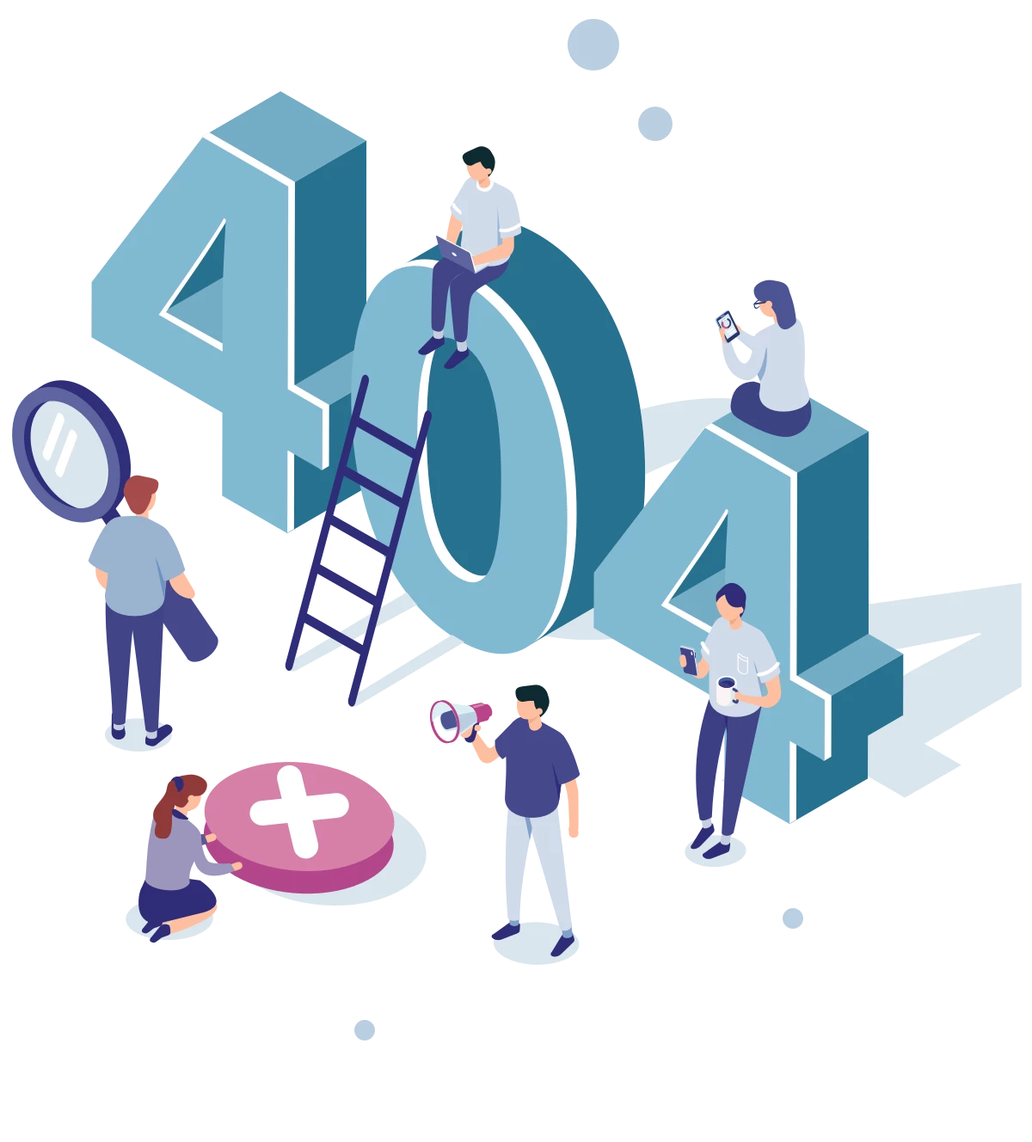
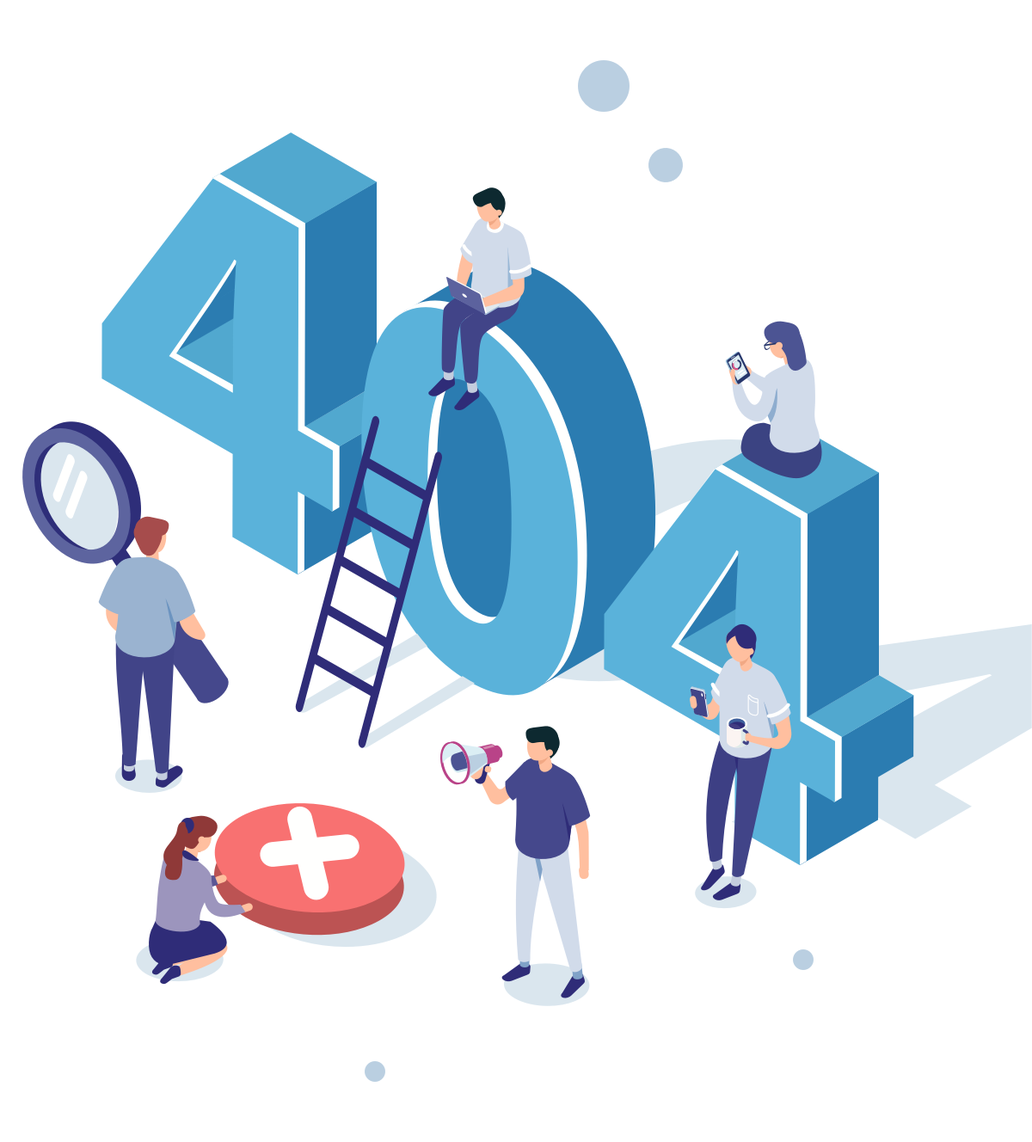
Add error page & about us and also small changes

diff --git a/data/homePage.tsx b/data/homePage.tsx
@@ -39,6 +39,7 @@ export interface IHomeDashboard {
   url: string;
   icon: JSX.Element | JSX.IntrinsicElements;
   text: string;
+  external?: boolean;
 }
 
 export const homeDashboard: IHomeDashboard[] = [
@@ -75,17 +76,18 @@ export const homeDashboard: IHomeDashboard[] = [
     ),
     text: 'Услуги и цены',
   },
-  // {
-  //   id: 3,
-  //   url: '/',
-  //   icon: (
-  //     <path
-  //       d="M12.226 2c-1.22 0-2.288.697-2.787 1.732-.637.138-1.49.354-2.355.673-.865.319-1.753.74-2.546 1.395C3.745 6.455 3 7.466 3 8.734c0 .553.09 1.19.24 2.213.15 1.022.367 2.375.673 3.896A111.178 111.178 0 006.7 25.762c2.45 7.9 5.952 16.372 11.725 19.866-.006.126-.048.252-.048.385 0 1.84.546 4.034 1.49 5.964.468.962 1.044 1.822 1.777 2.55.39.39.871.763 1.394 1.01.054 4.004.438 9.079 3.267 13.468 3.106 4.822 9.166 8.418 19.75 8.418 9.634 0 15.274-3.987 18.211-8.514 2.415-3.722 3.1-7.6 3.268-10.053 5.225-.728 9.274-5.25 9.274-10.679 0-5.928-4.841-10.774-10.764-10.774-5.928 0-10.763 4.846-10.763 10.774 0 5.376 3.976 9.837 9.13 10.63-.187 2.099-.805 5.43-2.74 8.418-2.444 3.77-6.799 7.12-15.616 7.12-9.917 0-14.626-3.103-17.155-7.023-2.3-3.566-2.72-8.04-2.787-11.833.48-.247.931-.602 1.297-.962.727-.728 1.31-1.588 1.778-2.55.943-1.93 1.49-4.124 1.49-5.964 0-.133-.042-.259-.048-.385 5.772-3.494 9.274-11.965 11.725-19.866a111.178 111.178 0 002.787-10.919c.306-1.521.522-2.874.672-3.896.15-1.022.24-1.66.24-2.213 0-1.268-.744-2.279-1.537-2.934-.793-.655-1.682-1.076-2.547-1.395a17.964 17.964 0 00-2.354-.673c-.03-.006-.018.006-.048 0C39.069 2.709 38.042 2 36.828 2a3.075 3.075 0 00-3.075 3.078 3.075 3.075 0 003.076 3.079c1.039 0 1.94-.511 2.498-1.299.475.108 1.027.229 1.586.433.673.247 1.321.565 1.682.866.36.3.384.42.384.577 0 .06-.048.818-.192 1.78a84.399 84.399 0 01-.673 3.704 108.38 108.38 0 01-2.69 10.63c-2.325 7.492-6.013 15.2-10.14 17.942-.354-.265-.732-.475-1.105-.577-1.34-.373-2.492-.145-3.652-.145-1.159 0-2.312-.222-3.652.145-.372.102-.75.312-1.105.577-4.126-2.742-7.814-10.45-10.139-17.942a108.381 108.381 0 01-2.69-10.63 84.398 84.398 0 01-.673-3.704 19.635 19.635 0 01-.193-1.78c0-.156.024-.276.385-.577.36-.3 1.009-.62 1.682-.866.558-.204 1.11-.325 1.585-.433a3.044 3.044 0 002.499 1.299c1.7 0 3.075-1.377 3.075-3.079A3.075 3.075 0 0012.226 2zm53.818 38.481a7.676 7.676 0 017.688 7.696 7.678 7.678 0 01-7.544 7.696h-.144a7.673 7.673 0 01-7.688-7.696 7.673 7.673 0 017.688-7.696zm0 3.078c-2.529 0-4.613 2.087-4.613 4.618 0 2.532 2.084 4.618 4.613 4.618 2.529 0 4.613-2.086 4.613-4.618 0-2.531-2.084-4.618-4.613-4.618zm-43.343 1.588h1.826c1.388 0 2.505-.042 2.835.048.169.048.132-.018.144 0 .013.018.097.252.097.818 0 1.124-.475 3.126-1.202 4.617-.366.746-.78 1.36-1.153 1.732-.294.295-.498.355-.625.385a1.026 1.026 0 00-.192 0c-.126-.03-.33-.09-.625-.385-.372-.373-.786-.986-1.153-1.732-.727-1.49-1.201-3.493-1.201-4.617 0-.566.084-.8.096-.818.012-.018-.024.048.144 0 .168-.048.517-.048 1.01-.048zm43.343 1.491c.871 0 1.538.667 1.538 1.54 0 .871-.667 1.538-1.538 1.538-.87 0-1.538-.667-1.538-1.539 0-.872.667-1.539 1.538-1.539z"
-  //       fillRule="nonzero"
-  //     />
-  //   ),
-  //   text: 'Раняя диагностика и скрининг',
-  // },
+  {
+    id: 3,
+    url: 'https://lk.step-med.com/',
+    icon: (
+      <path
+        d="M35.741 3c-6.052.134-10.476 1.958-13.148 5.424-3.163 4.105-3.757 10.396-1.768 18.707-.678.86-1.288 2.238-1.129 4.117.486 3.498 1.833 4.94 2.932 5.532.506 2.835 1.897 5.953 3.294 7.445v5.772c-1.003 2.228-4.27 3.517-8.032 5.003-6.346 2.505-14.245 5.622-14.794 15.47L3 72.18h35.243l.934-3.24h-32.6c1.197-6.457 6.95-8.729 12.532-10.93 3.306-1.306 6.47-2.563 8.44-4.665.522.479 1.146.882 1.809 1.218 1.77.898 4.048 1.415 6.582 1.415 2.553 0 4.838-.568 6.598-1.484a8.913 8.913 0 001.7-1.127c1.03 1.068 2.361 1.92 3.866 2.668l2.45-2.437c-2.255-1.01-4.036-2.092-4.763-3.62v-5.753c1.39-1.484 2.777-4.582 3.288-7.404 1.17-.567 2.611-2.008 2.948-5.658.156-1.824-.353-3.166-1.052-4.032 1.394-4.42 2.617-11.992-.334-16.805-1.398-2.282-3.535-3.717-6.355-4.272C42.7 4.077 39.72 3 35.741 3zm.039 3.237c3.105 0 5.341.772 6.136 2.114l.4.677.784.11c2.187.305 3.734 1.241 4.731 2.865 2.378 3.88 1.127 11.14-.298 15.075l-.52 1.335 1.302.642c.147.102.542.661.443 1.823-.222 2.398-.994 3.037-1.158 3.066h-1.495l-.14 1.469c-.298 3.071-2.033 6.242-2.628 6.683l-.828.465v7.746c0-.018-.308.7-1.504 1.323s-3.02 1.108-5.065 1.108c-2.065 0-3.896-.457-5.081-1.057-1.185-.601-1.488-1.235-1.488-1.374a1.602 1.602 0 00-.164-.721v-6.082l.035-.92-.827-.47c-.626-.46-2.365-3.633-2.663-6.705l-.022-1.452h-1.495c-.233-.09-.965-.856-1.273-3.063-.114-1.36.588-1.92.587-1.92l.968-.637-.285-1.11c-1.992-7.75-1.663-13.416.978-16.841 2.035-2.641 5.605-4.039 10.57-4.149zm34.486 35.16c-1.643 0-3.123.647-4.437 1.781l-.327.161-.163.165-.494.484-1.149 1.136-.33.323-19.214 19.119c-.164.162-.33.483-.494.645l-2.791 9.721c-.328.81.163 1.784 1.148 1.946.329.163.657.163.822 0l9.854-2.591c.328 0 .492-.163.82-.487l21.024-20.74.494-.322a6.587 6.587 0 000-9.399c-1.314-1.458-3.12-1.943-4.763-1.943zm0 3.24c.82 0 1.806.323 2.463.971 1.314 1.296 1.313 3.242.164 4.538l-4.764-4.7c.657-.485 1.316-.81 2.137-.81zm-4.6 3.079l4.927 4.86-17.902 17.66-4.927-4.699 17.902-17.821zm-19.545 20.9l3.452 3.402-4.764 1.294 1.312-4.696z"
+        fillRule="nonzero"
+      />
+    ),
+    text: 'Личный кабинет',
+    external: true,
+  },
   {
     id: 4,
     url: '/covid',
@@ -97,39 +99,46 @@ export const homeDashboard: IHomeDashboard[] = [
     ),
     text: 'COVID-19',
   },
-  // {
-  //   id: 5,
-  //   url: '/nashi-vrachi',
-  //   icon: (
-  //     <path
-  //       d="M42.808 10a1.56 1.56 0 011.426.926l.857 1.93.14.014c3.562.385 6.137 2.535 7.578 5.79 1.92-.59 4.13-.86 6.535-.86.576 0 1.1.317 1.372.817l.062.128.557 1.302.014.002c3.274.409 5.48 2.714 6.432 6.061l.073.267c.633 2.43.542 5.206-.177 7.123l-.052.131.054.103c.344.695.488 1.568.41 2.461l-.021.206c-.25 1.994-.955 3.418-1.991 4.076l-.02.01-.046.228c-.37 1.663-1.184 3.432-2.062 4.49l-.081.093.007 1.013.012.62c.015.57.041 1.108.083 1.67l.029.343.025.055c.35.716 1.115 1.316 2.61 2.04l.496.233.547.243 2.585 1.077.202.086c5.445 2.343 8.207 5.056 8.533 10.265a1.56 1.56 0 01-1.417 1.65l-.14.007h-9.667c.241.929.394 1.934.46 3.026a1.56 1.56 0 01-1.557 1.654H13.324a1.56 1.56 0 01-1.557-1.654c.062-1.032.202-1.985.42-2.871H2.56c-.9 0-1.613-.758-1.557-1.656.319-5.102 3-7.81 8.275-10.117l.545-.234 2.324-.954.557-.238.51-.229c1.698-.785 2.546-1.416 2.918-2.172l.022-.05.032-.407c.044-.623.07-1.204.085-1.814l.013-.8.003-.632-.067-.077c-.86-1.03-1.682-2.757-2.131-4.446l-.103-.414-.063-.038c-.989-.63-1.678-1.96-1.956-3.826l-.037-.27c-.115-1.033.079-2 .482-2.738l.046-.08-.031-.086c-2.8-7.908 2.462-15.513 12.279-15.674l.318-.003c.542 0 1.04.28 1.324.734l.071.128.335.67c2.15-5.337 7.734-9.204 15.657-9.329zm-1.004 3.142l-.308.017c-6.693.408-11.062 3.94-12.262 8.604a1.53 1.53 0 01-.078.43l-.05.13c-.453 2.275-.173 4.793.936 7.333a1.56 1.56 0 01-.565 1.922c-.05.033-.152.152-.239.333-.142.296-.21.686-.166 1.178.193 1.922.719 2.575 1.25 2.681l.132.033a1.56 1.56 0 011.113 1.334c.139 1.314.718 2.908 1.288 4.06l.19.366c.343.639.665 1.083.862 1.167.573.246.945.81.945 1.434v.935l-.008 1.23-.016.954c-.023 1-.065 1.93-.136 2.92a1.56 1.56 0 01-.098.444c-.855 2.243-2.533 3.561-5.927 5.06l-.679.293-.723.299-.378.152-2.004.794-.913.37-.732.312c-4.888 2.128-7.405 4.373-8.148 8.19l-.008.043h49.835l-.065-.32c-.83-3.745-3.454-5.95-8.468-8.076l-.354-.148-.437-.18-2.858-1.137-.723-.299-.679-.293c-3.394-1.499-5.072-2.817-5.927-5.06a1.56 1.56 0 01-.099-.451l-.03-.476-.05-.904a62.197 62.197 0 01-.019-.439l-.03-.876a74.295 74.295 0 01-.018-.91l-.01-.985-.002-1.441c0-.624.372-1.189.945-1.435.19-.081.545-.654.917-1.454l.172-.385c.057-.133.115-.27.171-.411l.167-.433c.355-.954.657-2.015.758-2.92a1.56 1.56 0 011.55-1.387c-.056 0-.055-.013-.01-.071l.127-.163c.35-.467.656-1.293.825-2.403.051-.562-.01-1.02-.136-1.318l-.039-.08-.11-.054a1.562 1.562 0 01-.55-2.237l.17-.231c.886-1.3 1.193-4.722.419-7.628-.945-3.549-3.109-5.627-6.468-5.627a1.56 1.56 0 01-1.426-.926l-.826-1.86zm-17.083 9.1l-.648-1.294-.217.014c-7.296.54-10.723 6.15-8.268 12.046l.099.23a1.56 1.56 0 01-.73 2.025l.14-.07c.025-.01.03-.01.026.002l-.006.015c-.085.19-.127.463-.089.804.103.828.278 1.378.467 1.678l.052.076.007.015.068.008a1.56 1.56 0 011.252 1.196l.024.135c.094.705.339 1.516.622 2.245l.157.388.161.365.16.336c.265.53.51.91.653.994.47.282.757.79.757 1.338l-.006 1.51a44.075 44.075 0 01-.155 3.3 1.56 1.56 0 01-.089.403c-.769 2.114-2.367 3.229-5.774 4.658l-2.148.88-.396.167c-3.792 1.614-5.782 3.211-6.468 5.892l-.01.038h9.076c1.59-2.717 4.31-4.677 8.232-6.428l.73-.317.376-.158.454-.186 2.85-1.134.337-.138.637-.27.589-.26c2.26-1.026 3.402-1.875 3.921-2.945l.032-.07.03-.445c.04-.689.067-1.363.083-2.078l.015-.913.007-1.368-.1-.1c-1.294-1.323-2.514-3.892-2.998-6.28l-.023-.119-.141-.08c-1.261-.768-2.174-2.321-2.468-4.653l-.035-.309c-.118-1.302.17-2.442.715-3.297l.108-.162-.1-.276c-.786-2.245-1.051-4.47-.847-6.572a1.553 1.553 0 01-1.05-.708l-.071-.128zm33.602-1.303l-.424.02c-1.537.083-2.939.306-4.154.677.607 2.96.393 6.166-.527 8.303l-.018.037.124.214c.435.807.633 1.877.561 3.046l-.018.24c-.368 2.452-1.296 4.21-2.558 4.967l-.09.051-.015.083c-.475 2.346-1.607 4.896-2.837 6.224l-.099.102.005 1.089.011.84.009.399.023.773.015.384.039.778.034.564.032.07c.52 1.07 1.663 1.92 3.929 2.949l.59.26c.102.045.206.09.313.134l.663.275L57 54.64l.6.25.73.317c3.85 1.717 6.539 3.637 8.14 6.273l.051-.001h9.118l-.018-.078c-.669-2.587-2.544-4.16-6.074-5.72l-.705-.304-1.775-.733-.674-.286c-3.146-1.364-4.652-2.474-5.394-4.514a1.56 1.56 0 01-.088-.392 36.733 36.733 0 01-.121-1.83l-.029-.938-.011-1.348-.001-.705c0-.548.287-1.056.757-1.338.134-.08.353-.41.585-.871l.157-.325.156-.356.151-.38c.27-.71.492-1.499.538-2.145a1.56 1.56 0 011.274-1.424l.08-.011.007-.014c.19-.255.373-.758.49-1.535l.029-.219a1.957 1.957 0 00-.032-.723l-.034-.104-.022-.014a1.562 1.562 0 01-.47-2.128l.078-.113c.663-.884.923-3.543.343-5.769-.675-2.59-2.184-4.059-4.555-4.059a1.56 1.56 0 01-1.372-.817l-.062-.129-.523-1.22z"
-  //       fillRule="nonzero"
-  //     />
-  //   ),
-  //   text: 'Наши сотрудники',
-  // },
-  // {
-  //   id: 6,
-  //   url: '/zaochnaya-konsultaciya',
-  //   icon: (
-  //     <path
-  //       d="M45.23 3c-2.613 0-4.766 2.134-4.766 4.723v17.318c0 2.589 2.153 4.723 4.766 4.723h3.493c.112.443.193.584.292 1.377.18 1.415.118 3.112-.44 4.213a1.578 1.578 0 00.068 1.537 1.6 1.6 0 001.352.744c3.264 0 5.548-2.466 7.056-4.606 1.16-1.642 1.52-2.595 1.811-3.265h13.372c2.613 0 4.766-2.134 4.766-4.723V7.723C77 5.134 74.847 3 72.234 3H45.23zm0 3.149h27.004c.9 0 1.589.682 1.589 1.574v17.318c0 .891-.689 1.574-1.589 1.574H57.938c-.652 0-1.235.394-1.47.99 0 0-.745 1.82-2.011 3.616-.652.917-1.415 1.734-2.203 2.331a14.208 14.208 0 00-.087-2.804c-.217-1.735-.664-3.057-.664-3.057a1.586 1.586 0 00-1.508-1.076H45.23c-.9 0-1.589-.683-1.589-1.574V7.723c0-.892.689-1.574 1.589-1.574zm-7.943 3.136c-6.782 0-11.181 3.02-12.968 7.583-1.7 4.335-1.242 9.796.16 15.559-.75.774-1.488 1.857-1.495 3.628-.012 2.085.708 3.696 1.663 4.723.546.584 1.136.652 1.713.91.112 1.58.385 3.18.962 4.55.521 1.25 1.247 2.104 2.016 2.934 0 2.011.013 3.567 0 5.535-.62 1.322-1.898 2.392-3.84 3.401-2.017 1.058-4.61 2.005-7.21 3.192-2.607 1.187-5.257 2.638-7.36 4.852-2.104 2.214-3.593 5.233-3.829 9.17L7 77h63.751l-.099-1.679c-.236-3.936-1.725-6.955-3.835-9.175-2.11-2.214-4.759-3.66-7.371-4.852-2.613-1.194-5.2-2.134-7.217-3.192-1.936-1.009-3.208-2.079-3.816-3.389-.019-2.115 0-3.677 0-5.664.77-.805 1.508-1.642 2.01-2.675.67-1.377 1.167-2.681 1.167-4.016 0-.873-.714-1.58-1.595-1.58-.88 0-1.594.707-1.594 1.58 0 .24-.323 1.538-.857 2.645-.533 1.107-1.346 2.146-1.65 2.367l-.67.474v.812c0 2.324-.038 3.93 0 6.519l.006.295.105.27c.993 2.43 3.097 3.96 5.405 5.166 2.302 1.2 4.92 2.146 7.372 3.266 2.45 1.113 4.722 2.404 6.378 4.145 1.328 1.396 2.154 3.234 2.594 5.522H10.667c.435-2.288 1.266-4.126 2.582-5.522 1.656-1.74 3.921-3.026 6.366-4.14 2.451-1.118 5.063-2.06 7.372-3.265 2.314-1.205 4.418-2.736 5.423-5.166l.112-.276.006-.302c.03-2.367 0-3.985 0-6.315v-.8l-.652-.473c-.198-.148-1.048-1.23-1.607-2.559-.552-1.322-.943-2.92-.918-4.212l.025-1.476-1.49-.123c.112.006-.484-.136-.893-.578-.41-.443-.825-1.156-.82-2.565.013-1.334.628-1.685.832-1.808l1-.609-.292-1.131c-1.502-5.769-1.787-11.02-.422-14.507 1.371-3.487 4.07-5.554 9.996-5.554.881 0 1.601-.713 1.601-1.586 0-.874-.72-1.587-1.6-1.587zm12.708 1.587v3.148h11.12v-3.148h-11.12zm14.297 0v3.148h4.765v-3.148h-4.765zm-14.297 7.871v3.149h4.766v-3.149h-4.766zm7.943 0v3.149h11.12v-3.149h-11.12z"
-  //       fillRule="nonzero"
-  //     />
-  //   ),
-  //   text: 'Заочная консультация',
-  // },
-  // {
-  //   id: 7,
-  //   url: '/',
-  //   icon: (
-  //     <path
-  //       d="M2.75 4.247A1.586 1.586 0 001.5 5.825v56.317c0 6.701 3.531 10.48 7 12.181 3.469 1.702 6.9 1.628 6.9 1.628h49.2v-.148c.769.086 1.6.148 1.6.148s3.075.018 6.15-1.726c3-1.702 5.956-5.302 6.1-11.54a.732.732 0 00.05-.099v-.098c.006-.08.006-.167 0-.247v-39.6-.05s.025-1.849-.95-3.747c-.975-1.899-3.244-3.945-6.8-3.945v-.05H55.6v3.156h8.9a6.892 6.892 0 00-.5.79c-.975 1.88-1 3.747-1 3.747v38.269a1.583 1.583 0 00.794 1.387c.5.284 1.112.284 1.612 0 .5-.29.8-.82.794-1.387V22.542c0-.043.063-1.183.65-2.317.6-1.153 1.444-2.17 3.9-2.17 2.45 0 3.294 1.042 3.9 2.219.594 1.159.7 2.324.7 2.367h-.05v39.6c0 5.616-2.275 7.983-4.55 9.271-2.275 1.289-4.55 1.283-4.55 1.283s-2.706-.037-5.4-1.381c-2.694-1.344-5.3-3.705-5.3-9.272V5.825c0-.87-.719-1.578-1.6-1.578H3.1a1.66 1.66 0 00-.35 0zM4.7 7.403h47.6v54.74c0 5.19 2.231 8.586 4.85 10.652h-41.8s-.687.006-1.7-.148c-.506-.08-1.069-.21-1.7-.395-.631-.185-1.331-.413-2-.74a11.221 11.221 0 01-1-.542c-2.287-1.418-4.25-3.865-4.25-8.828V7.402zm6.4 9.813c-.881.124-1.5.931-1.375 1.8.125.87.944 1.48 1.825 1.357H43.1a1.614 1.614 0 001.406-.783 1.574 1.574 0 000-1.59 1.614 1.614 0 00-1.406-.784H11.1zm0 6.313c-.881.123-1.5.93-1.375 1.8.125.869.944 1.48 1.825 1.356H43.1a1.614 1.614 0 001.406-.783 1.574 1.574 0 000-1.59 1.614 1.614 0 00-1.406-.783H11.1zm.75 12.624c-.881.124-1.5.931-1.375 1.8.125.87.944 1.48 1.825 1.357h10.85a1.614 1.614 0 001.406-.783 1.574 1.574 0 000-1.59 1.614 1.614 0 00-1.406-.784h-11.3zm18.45 0c-.881.124-1.5.931-1.375 1.8.125.87.944 1.48 1.825 1.357H43.1a1.614 1.614 0 001.406-.783 1.574 1.574 0 000-1.59 1.614 1.614 0 00-1.406-.784H30.3zm-18.45 6.313c-.881.123-1.5.93-1.375 1.8.125.869.944 1.48 1.825 1.356h10.85a1.614 1.614 0 001.406-.783 1.574 1.574 0 000-1.59 1.614 1.614 0 00-1.406-.783h-11.3zm18.45 0c-.881.123-1.5.93-1.375 1.8.125.869.944 1.48 1.825 1.356H43.1a1.614 1.614 0 001.406-.783 1.574 1.574 0 000-1.59 1.614 1.614 0 00-1.406-.783H30.3zm0 5.967c-.881.123-1.5.93-1.375 1.8s.944 1.48 1.825 1.356H43.1a1.614 1.614 0 001.406-.783 1.574 1.574 0 000-1.59 1.614 1.614 0 00-1.406-.783H30.75c-.1-.012-.2-.012-.3 0h-.15zm-18.45.345c-.881.123-1.5.93-1.375 1.8s.944 1.48 1.825 1.356h10.85a1.614 1.614 0 001.406-.783 1.574 1.574 0 000-1.59 1.614 1.614 0 00-1.406-.783h-11.3zm18.45 5.967c-.881.123-1.5.931-1.375 1.8.125.87.944 1.48 1.825 1.356H43.1a1.614 1.614 0 001.406-.783 1.574 1.574 0 000-1.59 1.614 1.614 0 00-1.406-.783H30.75c-.1-.012-.2-.012-.3 0h-.15zm-18.45.345c-.881.124-1.5.931-1.375 1.8.125.87.944 1.48 1.825 1.357h10.85a1.614 1.614 0 001.406-.783 1.574 1.574 0 000-1.59 1.614 1.614 0 00-1.406-.784h-11.3zm18.45 5.573c-.881.123-1.5.93-1.375 1.8s.944 1.48 1.825 1.356H43.1a1.614 1.614 0 001.406-.783 1.574 1.574 0 000-1.59 1.614 1.614 0 00-1.406-.783H30.3zm-18.45.74c-.881.123-1.5.93-1.375 1.8.125.869.944 1.48 1.825 1.356h10.85a1.614 1.614 0 001.406-.783 1.574 1.574 0 000-1.59 1.614 1.614 0 00-1.406-.783h-11.3z"
-  //       fillRule="nonzero"
-  //     />
-  //   ),
-  //   text: 'Наши события',
-  // },
+  {
+    id: 5,
+    url: '/zaochnaya-konsultaciya',
+    icon: (
+      <path
+        d="M45.23 3c-2.613 0-4.766 2.134-4.766 4.723v17.318c0 2.589 2.153 4.723 4.766 4.723h3.493c.112.443.193.584.292 1.377.18 1.415.118 3.112-.44 4.213a1.578 1.578 0 00.068 1.537 1.6 1.6 0 001.352.744c3.264 0 5.548-2.466 7.056-4.606 1.16-1.642 1.52-2.595 1.811-3.265h13.372c2.613 0 4.766-2.134 4.766-4.723V7.723C77 5.134 74.847 3 72.234 3H45.23zm0 3.149h27.004c.9 0 1.589.682 1.589 1.574v17.318c0 .891-.689 1.574-1.589 1.574H57.938c-.652 0-1.235.394-1.47.99 0 0-.745 1.82-2.011 3.616-.652.917-1.415 1.734-2.203 2.331a14.208 14.208 0 00-.087-2.804c-.217-1.735-.664-3.057-.664-3.057a1.586 1.586 0 00-1.508-1.076H45.23c-.9 0-1.589-.683-1.589-1.574V7.723c0-.892.689-1.574 1.589-1.574zm-7.943 3.136c-6.782 0-11.181 3.02-12.968 7.583-1.7 4.335-1.242 9.796.16 15.559-.75.774-1.488 1.857-1.495 3.628-.012 2.085.708 3.696 1.663 4.723.546.584 1.136.652 1.713.91.112 1.58.385 3.18.962 4.55.521 1.25 1.247 2.104 2.016 2.934 0 2.011.013 3.567 0 5.535-.62 1.322-1.898 2.392-3.84 3.401-2.017 1.058-4.61 2.005-7.21 3.192-2.607 1.187-5.257 2.638-7.36 4.852-2.104 2.214-3.593 5.233-3.829 9.17L7 77h63.751l-.099-1.679c-.236-3.936-1.725-6.955-3.835-9.175-2.11-2.214-4.759-3.66-7.371-4.852-2.613-1.194-5.2-2.134-7.217-3.192-1.936-1.009-3.208-2.079-3.816-3.389-.019-2.115 0-3.677 0-5.664.77-.805 1.508-1.642 2.01-2.675.67-1.377 1.167-2.681 1.167-4.016 0-.873-.714-1.58-1.595-1.58-.88 0-1.594.707-1.594 1.58 0 .24-.323 1.538-.857 2.645-.533 1.107-1.346 2.146-1.65 2.367l-.67.474v.812c0 2.324-.038 3.93 0 6.519l.006.295.105.27c.993 2.43 3.097 3.96 5.405 5.166 2.302 1.2 4.92 2.146 7.372 3.266 2.45 1.113 4.722 2.404 6.378 4.145 1.328 1.396 2.154 3.234 2.594 5.522H10.667c.435-2.288 1.266-4.126 2.582-5.522 1.656-1.74 3.921-3.026 6.366-4.14 2.451-1.118 5.063-2.06 7.372-3.265 2.314-1.205 4.418-2.736 5.423-5.166l.112-.276.006-.302c.03-2.367 0-3.985 0-6.315v-.8l-.652-.473c-.198-.148-1.048-1.23-1.607-2.559-.552-1.322-.943-2.92-.918-4.212l.025-1.476-1.49-.123c.112.006-.484-.136-.893-.578-.41-.443-.825-1.156-.82-2.565.013-1.334.628-1.685.832-1.808l1-.609-.292-1.131c-1.502-5.769-1.787-11.02-.422-14.507 1.371-3.487 4.07-5.554 9.996-5.554.881 0 1.601-.713 1.601-1.586 0-.874-.72-1.587-1.6-1.587zm12.708 1.587v3.148h11.12v-3.148h-11.12zm14.297 0v3.148h4.765v-3.148h-4.765zm-14.297 7.871v3.149h4.766v-3.149h-4.766zm7.943 0v3.149h11.12v-3.149h-11.12z"
+        fillRule="nonzero"
+      />
+    ),
+    text: 'Заочная консультация',
+  },
+  {
+    id: 6,
+    url: '/o-nas',
+    icon: (
+      <path
+        d="M42.808 10a1.56 1.56 0 011.426.926l.857 1.93.14.014c3.562.385 6.137 2.535 7.578 5.79 1.92-.59 4.13-.86 6.535-.86.576 0 1.1.317 1.372.817l.062.128.557 1.302.014.002c3.274.409 5.48 2.714 6.432 6.061l.073.267c.633 2.43.542 5.206-.177 7.123l-.052.131.054.103c.344.695.488 1.568.41 2.461l-.021.206c-.25 1.994-.955 3.418-1.991 4.076l-.02.01-.046.228c-.37 1.663-1.184 3.432-2.062 4.49l-.081.093.007 1.013.012.62c.015.57.041 1.108.083 1.67l.029.343.025.055c.35.716 1.115 1.316 2.61 2.04l.496.233.547.243 2.585 1.077.202.086c5.445 2.343 8.207 5.056 8.533 10.265a1.56 1.56 0 01-1.417 1.65l-.14.007h-9.667c.241.929.394 1.934.46 3.026a1.56 1.56 0 01-1.557 1.654H13.324a1.56 1.56 0 01-1.557-1.654c.062-1.032.202-1.985.42-2.871H2.56c-.9 0-1.613-.758-1.557-1.656.319-5.102 3-7.81 8.275-10.117l.545-.234 2.324-.954.557-.238.51-.229c1.698-.785 2.546-1.416 2.918-2.172l.022-.05.032-.407c.044-.623.07-1.204.085-1.814l.013-.8.003-.632-.067-.077c-.86-1.03-1.682-2.757-2.131-4.446l-.103-.414-.063-.038c-.989-.63-1.678-1.96-1.956-3.826l-.037-.27c-.115-1.033.079-2 .482-2.738l.046-.08-.031-.086c-2.8-7.908 2.462-15.513 12.279-15.674l.318-.003c.542 0 1.04.28 1.324.734l.071.128.335.67c2.15-5.337 7.734-9.204 15.657-9.329zm-1.004 3.142l-.308.017c-6.693.408-11.062 3.94-12.262 8.604a1.53 1.53 0 01-.078.43l-.05.13c-.453 2.275-.173 4.793.936 7.333a1.56 1.56 0 01-.565 1.922c-.05.033-.152.152-.239.333-.142.296-.21.686-.166 1.178.193 1.922.719 2.575 1.25 2.681l.132.033a1.56 1.56 0 011.113 1.334c.139 1.314.718 2.908 1.288 4.06l.19.366c.343.639.665 1.083.862 1.167.573.246.945.81.945 1.434v.935l-.008 1.23-.016.954c-.023 1-.065 1.93-.136 2.92a1.56 1.56 0 01-.098.444c-.855 2.243-2.533 3.561-5.927 5.06l-.679.293-.723.299-.378.152-2.004.794-.913.37-.732.312c-4.888 2.128-7.405 4.373-8.148 8.19l-.008.043h49.835l-.065-.32c-.83-3.745-3.454-5.95-8.468-8.076l-.354-.148-.437-.18-2.858-1.137-.723-.299-.679-.293c-3.394-1.499-5.072-2.817-5.927-5.06a1.56 1.56 0 01-.099-.451l-.03-.476-.05-.904a62.197 62.197 0 01-.019-.439l-.03-.876a74.295 74.295 0 01-.018-.91l-.01-.985-.002-1.441c0-.624.372-1.189.945-1.435.19-.081.545-.654.917-1.454l.172-.385c.057-.133.115-.27.171-.411l.167-.433c.355-.954.657-2.015.758-2.92a1.56 1.56 0 011.55-1.387c-.056 0-.055-.013-.01-.071l.127-.163c.35-.467.656-1.293.825-2.403.051-.562-.01-1.02-.136-1.318l-.039-.08-.11-.054a1.562 1.562 0 01-.55-2.237l.17-.231c.886-1.3 1.193-4.722.419-7.628-.945-3.549-3.109-5.627-6.468-5.627a1.56 1.56 0 01-1.426-.926l-.826-1.86zm-17.083 9.1l-.648-1.294-.217.014c-7.296.54-10.723 6.15-8.268 12.046l.099.23a1.56 1.56 0 01-.73 2.025l.14-.07c.025-.01.03-.01.026.002l-.006.015c-.085.19-.127.463-.089.804.103.828.278 1.378.467 1.678l.052.076.007.015.068.008a1.56 1.56 0 011.252 1.196l.024.135c.094.705.339 1.516.622 2.245l.157.388.161.365.16.336c.265.53.51.91.653.994.47.282.757.79.757 1.338l-.006 1.51a44.075 44.075 0 01-.155 3.3 1.56 1.56 0 01-.089.403c-.769 2.114-2.367 3.229-5.774 4.658l-2.148.88-.396.167c-3.792 1.614-5.782 3.211-6.468 5.892l-.01.038h9.076c1.59-2.717 4.31-4.677 8.232-6.428l.73-.317.376-.158.454-.186 2.85-1.134.337-.138.637-.27.589-.26c2.26-1.026 3.402-1.875 3.921-2.945l.032-.07.03-.445c.04-.689.067-1.363.083-2.078l.015-.913.007-1.368-.1-.1c-1.294-1.323-2.514-3.892-2.998-6.28l-.023-.119-.141-.08c-1.261-.768-2.174-2.321-2.468-4.653l-.035-.309c-.118-1.302.17-2.442.715-3.297l.108-.162-.1-.276c-.786-2.245-1.051-4.47-.847-6.572a1.553 1.553 0 01-1.05-.708l-.071-.128zm33.602-1.303l-.424.02c-1.537.083-2.939.306-4.154.677.607 2.96.393 6.166-.527 8.303l-.018.037.124.214c.435.807.633 1.877.561 3.046l-.018.24c-.368 2.452-1.296 4.21-2.558 4.967l-.09.051-.015.083c-.475 2.346-1.607 4.896-2.837 6.224l-.099.102.005 1.089.011.84.009.399.023.773.015.384.039.778.034.564.032.07c.52 1.07 1.663 1.92 3.929 2.949l.59.26c.102.045.206.09.313.134l.663.275L57 54.64l.6.25.73.317c3.85 1.717 6.539 3.637 8.14 6.273l.051-.001h9.118l-.018-.078c-.669-2.587-2.544-4.16-6.074-5.72l-.705-.304-1.775-.733-.674-.286c-3.146-1.364-4.652-2.474-5.394-4.514a1.56 1.56 0 01-.088-.392 36.733 36.733 0 01-.121-1.83l-.029-.938-.011-1.348-.001-.705c0-.548.287-1.056.757-1.338.134-.08.353-.41.585-.871l.157-.325.156-.356.151-.38c.27-.71.492-1.499.538-2.145a1.56 1.56 0 011.274-1.424l.08-.011.007-.014c.19-.255.373-.758.49-1.535l.029-.219a1.957 1.957 0 00-.032-.723l-.034-.104-.022-.014a1.562 1.562 0 01-.47-2.128l.078-.113c.663-.884.923-3.543.343-5.769-.675-2.59-2.184-4.059-4.555-4.059a1.56 1.56 0 01-1.372-.817l-.062-.129-.523-1.22z"
+        fillRule="nonzero"
+      />
+    ),
+    text: 'О нас',
+    // icon: (
+    //   <path
+    //     d="M12.226 2c-1.22 0-2.288.697-2.787 1.732-.637.138-1.49.354-2.355.673-.865.319-1.753.74-2.546 1.395C3.745 6.455 3 7.466 3 8.734c0 .553.09 1.19.24 2.213.15 1.022.367 2.375.673 3.896A111.178 111.178 0 006.7 25.762c2.45 7.9 5.952 16.372 11.725 19.866-.006.126-.048.252-.048.385 0 1.84.546 4.034 1.49 5.964.468.962 1.044 1.822 1.777 2.55.39.39.871.763 1.394 1.01.054 4.004.438 9.079 3.267 13.468 3.106 4.822 9.166 8.418 19.75 8.418 9.634 0 15.274-3.987 18.211-8.514 2.415-3.722 3.1-7.6 3.268-10.053 5.225-.728 9.274-5.25 9.274-10.679 0-5.928-4.841-10.774-10.764-10.774-5.928 0-10.763 4.846-10.763 10.774 0 5.376 3.976 9.837 9.13 10.63-.187 2.099-.805 5.43-2.74 8.418-2.444 3.77-6.799 7.12-15.616 7.12-9.917 0-14.626-3.103-17.155-7.023-2.3-3.566-2.72-8.04-2.787-11.833.48-.247.931-.602 1.297-.962.727-.728 1.31-1.588 1.778-2.55.943-1.93 1.49-4.124 1.49-5.964 0-.133-.042-.259-.048-.385 5.772-3.494 9.274-11.965 11.725-19.866a111.178 111.178 0 002.787-10.919c.306-1.521.522-2.874.672-3.896.15-1.022.24-1.66.24-2.213 0-1.268-.744-2.279-1.537-2.934-.793-.655-1.682-1.076-2.547-1.395a17.964 17.964 0 00-2.354-.673c-.03-.006-.018.006-.048 0C39.069 2.709 38.042 2 36.828 2a3.075 3.075 0 00-3.075 3.078 3.075 3.075 0 003.076 3.079c1.039 0 1.94-.511 2.498-1.299.475.108 1.027.229 1.586.433.673.247 1.321.565 1.682.866.36.3.384.42.384.577 0 .06-.048.818-.192 1.78a84.399 84.399 0 01-.673 3.704 108.38 108.38 0 01-2.69 10.63c-2.325 7.492-6.013 15.2-10.14 17.942-.354-.265-.732-.475-1.105-.577-1.34-.373-2.492-.145-3.652-.145-1.159 0-2.312-.222-3.652.145-.372.102-.75.312-1.105.577-4.126-2.742-7.814-10.45-10.139-17.942a108.381 108.381 0 01-2.69-10.63 84.398 84.398 0 01-.673-3.704 19.635 19.635 0 01-.193-1.78c0-.156.024-.276.385-.577.36-.3 1.009-.62 1.682-.866.558-.204 1.11-.325 1.585-.433a3.044 3.044 0 002.499 1.299c1.7 0 3.075-1.377 3.075-3.079A3.075 3.075 0 0012.226 2zm53.818 38.481a7.676 7.676 0 017.688 7.696 7.678 7.678 0 01-7.544 7.696h-.144a7.673 7.673 0 01-7.688-7.696 7.673 7.673 0 017.688-7.696zm0 3.078c-2.529 0-4.613 2.087-4.613 4.618 0 2.532 2.084 4.618 4.613 4.618 2.529 0 4.613-2.086 4.613-4.618 0-2.531-2.084-4.618-4.613-4.618zm-43.343 1.588h1.826c1.388 0 2.505-.042 2.835.048.169.048.132-.018.144 0 .013.018.097.252.097.818 0 1.124-.475 3.126-1.202 4.617-.366.746-.78 1.36-1.153 1.732-.294.295-.498.355-.625.385a1.026 1.026 0 00-.192 0c-.126-.03-.33-.09-.625-.385-.372-.373-.786-.986-1.153-1.732-.727-1.49-1.201-3.493-1.201-4.617 0-.566.084-.8.096-.818.012-.018-.024.048.144 0 .168-.048.517-.048 1.01-.048zm43.343 1.491c.871 0 1.538.667 1.538 1.54 0 .871-.667 1.538-1.538 1.538-.87 0-1.538-.667-1.538-1.539 0-.872.667-1.539 1.538-1.539z"
+    //     fillRule="nonzero"
+    //   />
+    // ),
+    // text: 'Раняя диагностика и скрининг',
+  },
+  {
+    id: 7,
+    url: '/contacts',
+    icon: (
+      <path
+        d="M40 3c-11.323 0-20.536 9.382-20.536 20.913 0 8.17 4.905 18.255 9.7 26.531 4.789 8.276 9.577 14.667 9.577 14.667L40 66.776l1.259-1.665s4.788-6.391 9.577-14.667c4.795-8.276 9.7-18.362 9.7-26.531C60.536 12.382 51.323 3 40 3zm0 3.217c9.614 0 17.377 7.906 17.377 17.696 0 6.78-4.573 16.803-9.256 24.897-4.06 7.007-7.103 11.041-8.121 12.424-1.018-1.383-4.06-5.417-8.12-12.424-4.684-8.094-9.257-18.117-9.257-24.897 0-9.79 7.763-17.696 17.377-17.696zm0 9.653c-4.344 0-7.899 3.62-7.899 8.043 0 4.424 3.555 8.044 7.899 8.044 4.344 0 7.899-3.62 7.899-8.044S44.344 15.87 40 15.87zm0 3.217c2.635 0 4.74 2.143 4.74 4.826s-2.105 4.826-4.74 4.826c-2.635 0-4.74-2.143-4.74-4.826s2.105-4.826 4.74-4.826zM12.034 51.261L3 77h74l-9.034-25.74H55.877a133.216 133.216 0 01-1.85 3.218h11.717l6.764 19.305H7.492l6.764-19.305h11.718a133.216 133.216 0 01-1.851-3.217H12.034z"
+        fillRule="nonzero"
+      />
+    ),
+    text: 'Контакты',
+  },
 ];
 
 // About

diff --git a/components/innerpages/ONas.tsx b/components/innerpages/ONas.tsx
@@ -1,0 +1,91 @@
+const ONas = () => (
+  <div className="container">
+    <h1>О нас</h1>
+    <img src="/images/illustrations/about_1.webp" />
+
+    <p className="custom-text">
+      Степмед Клиник создана командой единомышленников, каждый из которых имеет
+      опыт работы в ведущих медицинских организациях, оказывающих медицинскую
+      помощь пациентам, страдающим онкологическими заболеваниями. Мы
+      специализируемся на клинической онкологии и проведении всех видов
+      лекарственной противоопухолевой терапии.
+    </p>
+    <p className="custom-text">
+      При формировании принципов работы клиники мы постарались учесть все нюансы
+      организации процесса оказания медицинской помощи пациентам с
+      онкологическими заболеваниями, избавиться от недостатков, которые были
+      отмечены при работе в других медицинских организациях.
+    </p>
+
+    <h2 className="custom-title">Пациент всегда на первом месте.</h2>
+    <p className="custom-text">
+      Это означает, что интересы и помощь пациенту всегда превыше, чем
+      финансовая выгода. Важно, что все представители руководящего состава
+      клиники также являются врачами-онкологами. Поэтому клинической команде не
+      приходится доказывать обоснованность своих предложений или объяснять
+      потребности пациентов, т.к. руководители также ведут прием и понимают, что
+      на самом деле нужно пациенту. Это позволило сформировать климат, в котором
+      комфортно находиться пациенту – его проблемы действительно важны врачу и
+      всем сотрудникам клиники, и при этом комфортно работать врачу – он может
+      «погрузиться» в проблемы пациента, не будучи поставленным в рамки
+      планового задания или «среднего чека» и навязывания дополнительных услуг.
+    </p>
+
+    <h2 className="custom-title">Только качественные препараты.</h2>
+    <p className="custom-text">
+      Вторым важным элементом было выделено качество лекарственных препаратов и
+      расходных средств, которые используются каждый день. Это залог
+      эффективности и безопасности проводимого лечения. С первого дня работы мы
+      строго соблюдаем требования законодательства по маркировке препаратов,
+      контролируем температурный режим. При выборе производителя лекарственных
+      препаратов – руководствуемся принципами эффективности и безопасности
+      медицинских изделий и стараемся выбирать оригиналы либо максимально
+      приближенные к ним аналоги (в случае отсутствия возможности официальной
+      покупки оригинального препарата).
+    </p>
+
+    <img src="/images/illustrations/about_3.webp" />
+    <h2 className="custom-title">Мы за доступность медицины.</h2>
+    <p className="custom-text">
+      Невозможно обойти вопрос доступности лекарственной терапии. Зачастую
+      современная противоопухолевая терапия требует внушительных средств для
+      проведения лечения. Учитывая этот факт, Степмед Клиник была включена в
+      участие в реализации программы государственных гарантий бесплатного
+      оказания гражданам медицинской помощи. Преимущественный объем оказываемой
+      нами медицинской помощи оплачивается за счет средств ОМС, а пациентам
+      достаточно иметь действующий полис, чтобы получать передовые методы
+      лечения.
+    </p>
+
+    <h2 className="custom-title">Непрерывность и преемственность лечения.</h2>
+    <p className="custom-text">
+      Важным вопросом организации лекарственной терапии является непрерывность
+      лечения и его преемственность. Частная форма собственности позволяет нам
+      оперативно закупать любые необходимые лекарственные препараты, что
+      позволяет избежать смещения сроков лечения по причинам, связанным с
+      поставками препаратов. И если стоит вопрос о сроках начала лечения, как
+      правило он состоит исключительно из времени, требующегося на прохождение
+      предварительных обследований и проведения лабораторных анализов.
+    </p>
+    <p className="custom-text">
+      Однако для обеспечения комплексного подхода требуется привлечение хирургов
+      и лучевых терапевтов. Если что-то выходит за рамки возможностей нашей
+      клиники – это не означает, что мы откажем в лечении. В таких ситуациях мы
+      используем все ресурсы наших партнеров для организации полноценной помощи.
+    </p>
+    <p className="custom-text">
+      Если же пациент столкнулся с проблемой редкого заболевания или уже
+      проведено большое количество линий лечения, лечащим врачом нашей клиники
+      может быть предложено участие в клиническом исследовании на нашей базе
+      либо на базах других медицинских организаций.
+    </p>
+    <p className="mb-4 custom-text-message">
+      В своей практике мы используем все доступные современные методы лечения:
+      химиотерапию, таргетную терапию, иммунотерапию, горомонотерапию, а также
+      сочетание этих методов лечения.
+    </p>
+    <img src="/images/illustrations/about_2.webp" />
+  </div>
+);
+
+export default ONas;

diff --git a/components/home/Dashboard.tsx b/components/home/Dashboard.tsx
@@ -2,10 +2,14 @@ import { FC } from 'react';
 import Link from 'next/link';
 import { homeDashboard, IHomeDashboard } from '@data/homePage';
 
-const DashboardBlock: FC<IHomeDashboard> = ({ url, icon, text }) => (
-  <>
-    <Link href={url}>
-      <a className="flex flex-col items-center justify-center h-48 p-2 transition duration-300 ease-in-out bg-gray-100 rounded-lg select-none group md:p-4 lg:p-6 md:h-52 lg:h-56 hover:bg-primary">
+const DashboardBlock: FC<IHomeDashboard> = ({ url, icon, text, external }) => {
+  if (external) {
+    return (
+      <a
+        href={url}
+        target="_blank"
+        className="flex flex-col items-center justify-center h-48 p-2 transition duration-300 ease-in-out bg-gray-100 rounded-lg select-none group md:p-4 lg:p-6 md:h-52 lg:h-56 hover:bg-primary"
+      >
         <svg
           width={80}
           height={80}
@@ -18,9 +22,29 @@ const DashboardBlock: FC<IHomeDashboard> = ({ url, icon, text }) => (
           {text}
         </p>
       </a>
-    </Link>
-  </>
-);
+    );
+  }
+
+  return (
+    <>
+      <Link href={url}>
+        <a className="flex flex-col items-center justify-center h-48 p-2 transition duration-300 ease-in-out bg-gray-100 rounded-lg select-none group md:p-4 lg:p-6 md:h-52 lg:h-56 hover:bg-primary">
+          <svg
+            width={80}
+            height={80}
+            viewBox="0 0 80 80"
+            className="w-12 h-12 duration-200 ease-in-out fill-current group-hover:text-white md:h-14 lg:h-16 xl:h-20 md:w-14 lg:w-16 xl:w-20 text-text-primary"
+          >
+            {icon}
+          </svg>
+          <p className="mt-4 text-base font-bold text-center transition duration-200 ease-in-out group-hover:text-white md:mt-4 xl:mt-5 md:text-base lg:text-lg xl:text-xl">
+            {text}
+          </p>
+        </a>
+      </Link>
+    </>
+  );
+};
 
 const Dashboard = () => (
   <div className="container mt-16 lg:mt-32 xl:mt-16">

diff --git a/pages/404.tsx b/pages/404.tsx
@@ -1,0 +1,28 @@
+import Head from 'next/head';
+
+export default function Custom404() {
+  return (
+    <>
+      <Head>
+        <title>Страница не найдена</title>
+        <meta charSet="utf-8" />
+        <meta name="viewport" content="initial-scale=1.0, width=device-width" />
+        <link rel="shortcut icon" href="/images/favicon.webp"></link>
+      </Head>
+      <main className="grid items-center min-h-full grid-cols-1 2xl:grid-cols-2">
+        <div className="z-10 max-w-xl p-4 m-auto md:p-8">
+          <h1 className="2xl:text-6xl">Страница не найдена</h1>
+          <p className="custom-text">
+            Страница устарела, была удалена или не существовала вовсе
+          </p>
+          <a href="/" className="mt-8 bttn md:mt-10 lg:mt-12">
+            Вернуться на главную
+          </a>
+        </div>
+        <div className="absolute top-0 bottom-0 left-0 right-0 flex items-center justify-center overflow-hidden opacity-10 2xl:opacity-100 2xl:static">
+          <img src="/images/illustrations/error.webp" />
+        </div>
+      </main>
+    </>
+  );
+}

diff --git a/components/shared/Layout.tsx b/components/shared/Layout.tsx
@@ -10,7 +10,7 @@ import Registration from '@components/shared/Registration';
 import { Footer } from '@components/shared/Footer';
 import Script from 'next/script';
 
-const backlessLayoutPages = ['/', '/another-page'];
+const backlessLayoutPages = ['/'];
 
 const Scroll = () => {
   const [scrollPosition, setScrollPosition] = useState(0);

diff --git a/data/navBar.ts b/data/navBar.ts
@@ -38,11 +38,11 @@ export const navBarMenu: INavBarMenu[] = [
 ];
 
 export const aboutSubMenu: INavBarMenu[] = [
-  // {
-  //   id: 0,
-  //   url: '/',
-  //   title: 'О нас',
-  // },
+  {
+    id: 0,
+    url: '/o-nas',
+    title: 'О нас',
+  },
   {
     id: 1,
     url: '/dokumenti-i-licenzii',

diff --git a/pages/o-nas.tsx b/pages/o-nas.tsx
@@ -1,0 +1,12 @@
+import Layout from '@components/shared/Layout';
+import ONas from '@components/innerpages/ONas';
+
+export default function ONasPage() {
+  return (
+    <>
+      <Layout title="О нас">
+        <ONas />
+      </Layout>
+    </>
+  );
+}
